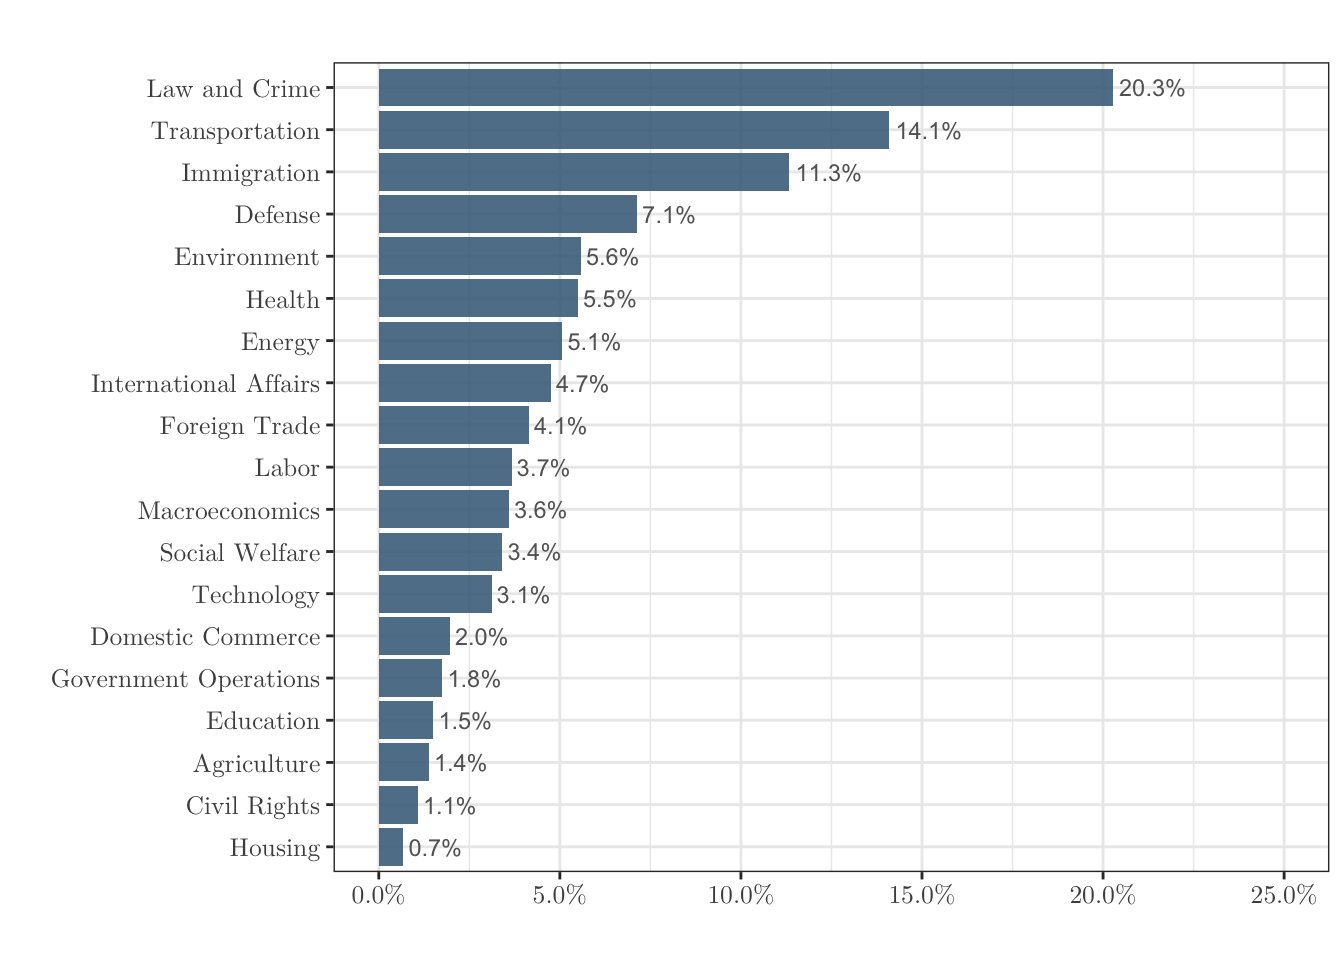
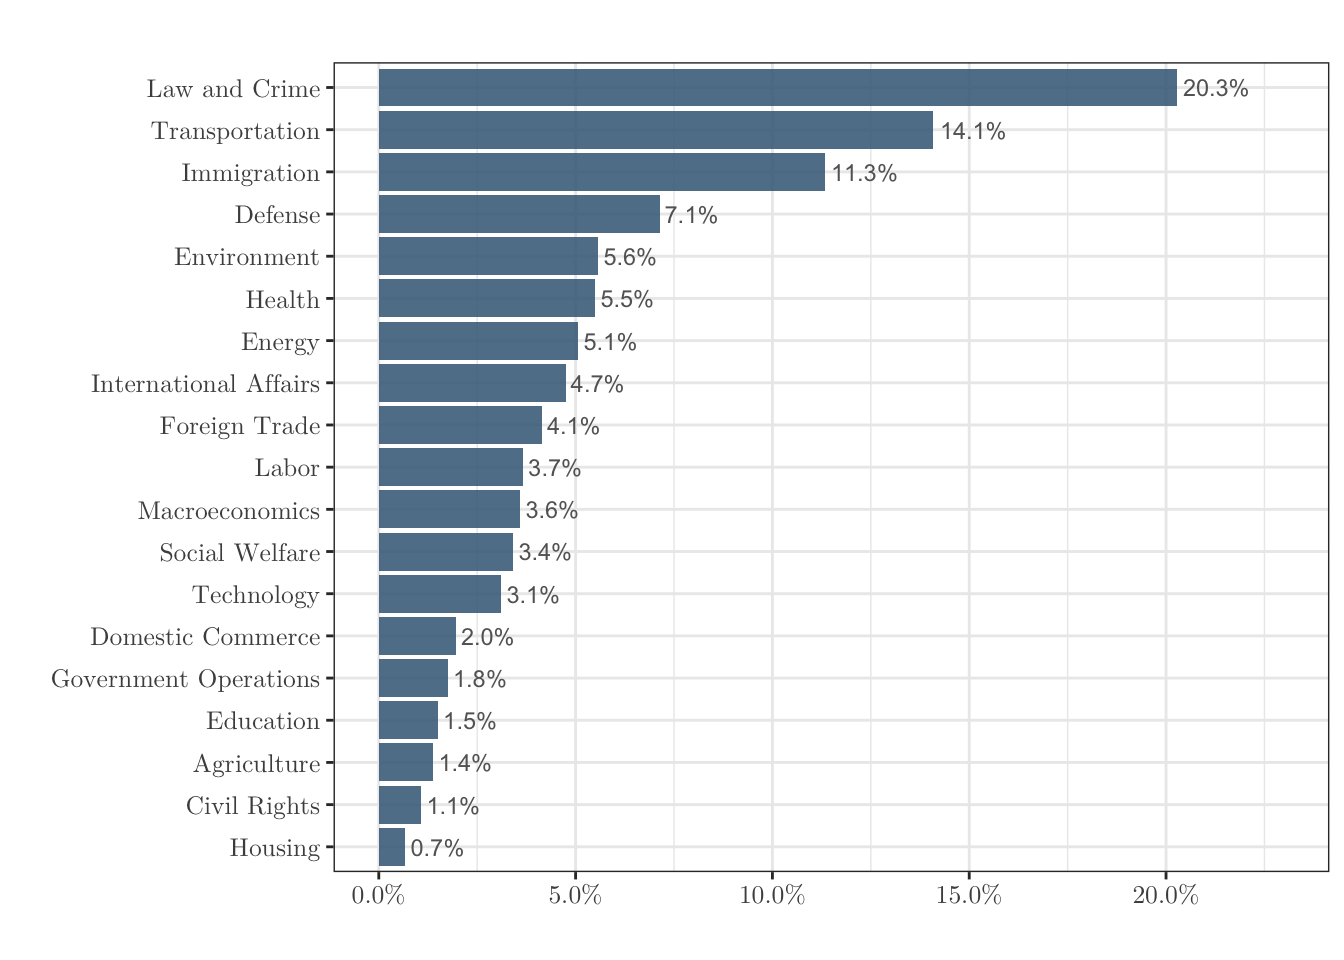
small updates

diff --git a/content/post/2019-02-14-german-bundestag-minor-interpellations.html b/content/post/2019-02-14-german-bundestag-minor-interpellations.html
@@ -265,7 +265,7 @@ df_complete_clean %&lt;&gt;%
   ggtitle(&quot;&quot;) + ylab(&quot;&quot;) + xlab(&quot;&quot;) +
   theme_bw() + theme(text=element_text(size = 12,
                           family = &quot;LM Roman 10&quot;)) +
-  scale_y_continuous(labels = scales::percent_format(), limits=c(0,0.25)) +
+  scale_y_continuous(labels = scales::percent_format(), limits=c(0,0.23)) +
   coord_flip()</code></pre>
 <p><img src="/post/2019-02-14-german-bundestag-minor-interpellations_files/figure-html/unnamed-chunk-7-1.png" width="672" /></p>
 <p>It can be seen that the distribution is very unbalanced and some topics are hardly represented. This point should in principle be taken into account when using Random Forest. For example, with strongly unbalanced data, the major class can be down-sampled or the minor class over-sampled.</p>
@@ -386,7 +386,7 @@ prob_plot_df &lt;- rbind.data.frame(df_rf_200_eng, df_svm_eng)</code></pre>
   facet_wrap(~bt_f) +
   coord_flip()</code></pre>
 <p><img src="/post/2019-02-14-german-bundestag-minor-interpellations_files/figure-html/unnamed-chunk-11-1.png" width="672" /></p>
-<p>This plot shows the percentage of each topic for each party. You can clearly see that almost every party has a clear thematic focus. <em>Immigration</em> has the highest share of the minor interpolations of the AfD. By contrast, <em>law and crime</em> make up the largest share of <em>Die Linke</em>. Among <em>Güne</em>, <em>transport</em> makes up the biggest share, with a focus on e-mobility. The FDP also has the largest share in <em>transport</em>, but it is lower than in the <em>Grünen</em>. In general, the FDP has no such clear focus on a specific topic as the other parties do. In contrast, the FDP is moderately represented on some topics.</p>
+<p>This plot shows the percentage of each topic for each party. You can clearly see that almost every party has a clear thematic focus. <em>Immigration</em> has the highest share of the minor interpolations of the AfD. By contrast, <em>law and crime</em> makes up the largest share of <em>Die Linke</em>. Among <em>Grüne</em>, <em>transport</em> makes up the biggest share, with a focus on e-mobility. The FDP also has the largest share in <em>transport</em>, but it is lower than in the <em>Grünen</em>. In general, the FDP has no such clear focus on a specific topic as the other parties do. In contrast, the FDP is moderately represented on some topics.</p>
 </div>
 <div id="sentiment-analysis" class="section level2">
 <h2>Sentiment Analysis</h2>

diff --git a/public/post/german-bundestag-minor-interpellations/index.html b/public/post/german-bundestag-minor-interpellations/index.html
@@ -568,7 +568,7 @@ df_complete_clean %&lt;&gt;%
   ggtitle(&quot;&quot;) + ylab(&quot;&quot;) + xlab(&quot;&quot;) +
   theme_bw() + theme(text=element_text(size = 12,
                           family = &quot;LM Roman 10&quot;)) +
-  scale_y_continuous(labels = scales::percent_format(), limits=c(0,0.25)) +
+  scale_y_continuous(labels = scales::percent_format(), limits=c(0,0.23)) +
   coord_flip()</code></pre>
 <p><img src="/post/2019-02-14-german-bundestag-minor-interpellations_files/figure-html/unnamed-chunk-7-1.png" width="672" /></p>
 <p>It can be seen that the distribution is very unbalanced and some topics are hardly represented. This point should in principle be taken into account when using Random Forest. For example, with strongly unbalanced data, the major class can be down-sampled or the minor class over-sampled.</p>
@@ -689,7 +689,7 @@ prob_plot_df &lt;- rbind.data.frame(df_rf_200_eng, df_svm_eng)</code></pre>
   facet_wrap(~bt_f) +
   coord_flip()</code></pre>
 <p><img src="/post/2019-02-14-german-bundestag-minor-interpellations_files/figure-html/unnamed-chunk-11-1.png" width="672" /></p>
-<p>This plot shows the percentage of each topic for each party. You can clearly see that almost every party has a clear thematic focus. <em>Immigration</em> has the highest share of the minor interpolations of the AfD. By contrast, <em>law and crime</em> make up the largest share of <em>Die Linke</em>. Among <em>Güne</em>, <em>transport</em> makes up the biggest share, with a focus on e-mobility. The FDP also has the largest share in <em>transport</em>, but it is lower than in the <em>Grünen</em>. In general, the FDP has no such clear focus on a specific topic as the other parties do. In contrast, the FDP is moderately represented on some topics.</p>
+<p>This plot shows the percentage of each topic for each party. You can clearly see that almost every party has a clear thematic focus. <em>Immigration</em> has the highest share of the minor interpolations of the AfD. By contrast, <em>law and crime</em> makes up the largest share of <em>Die Linke</em>. Among <em>Grüne</em>, <em>transport</em> makes up the biggest share, with a focus on e-mobility. The FDP also has the largest share in <em>transport</em>, but it is lower than in the <em>Grünen</em>. In general, the FDP has no such clear focus on a specific topic as the other parties do. In contrast, the FDP is moderately represented on some topics.</p>
 </div>
 <div id="sentiment-analysis" class="section level2">
 <h2>Sentiment Analysis</h2>
